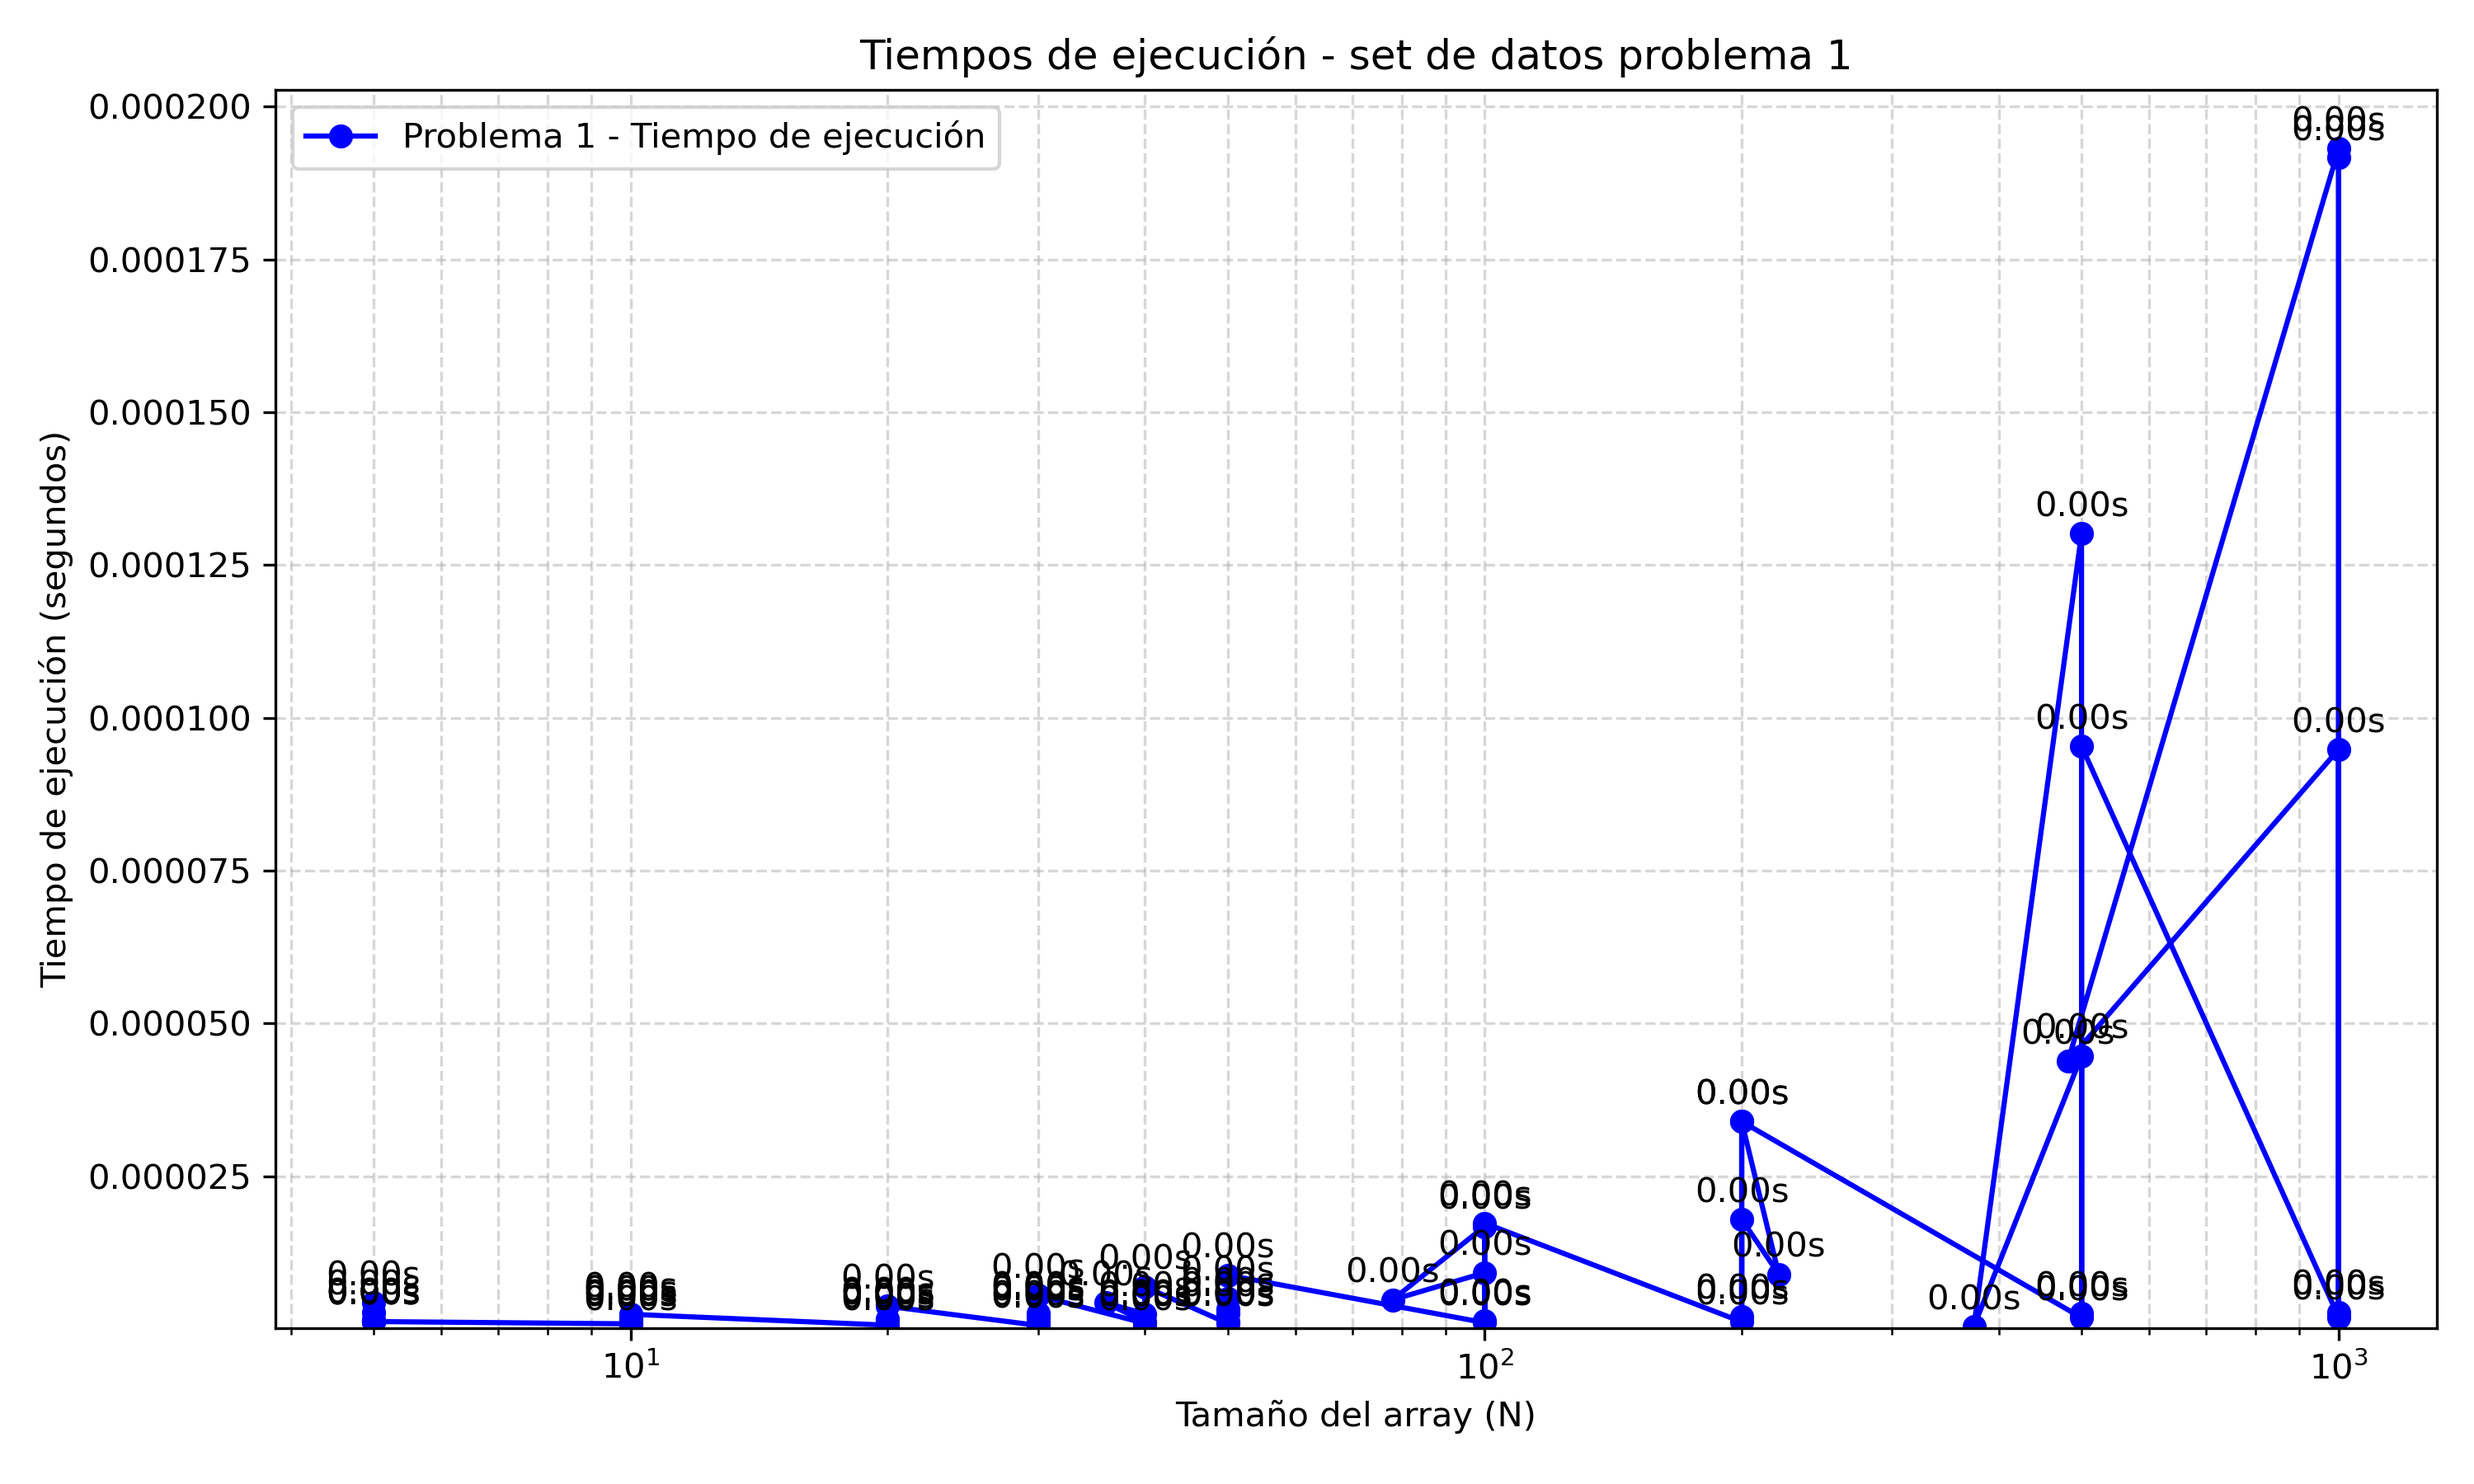
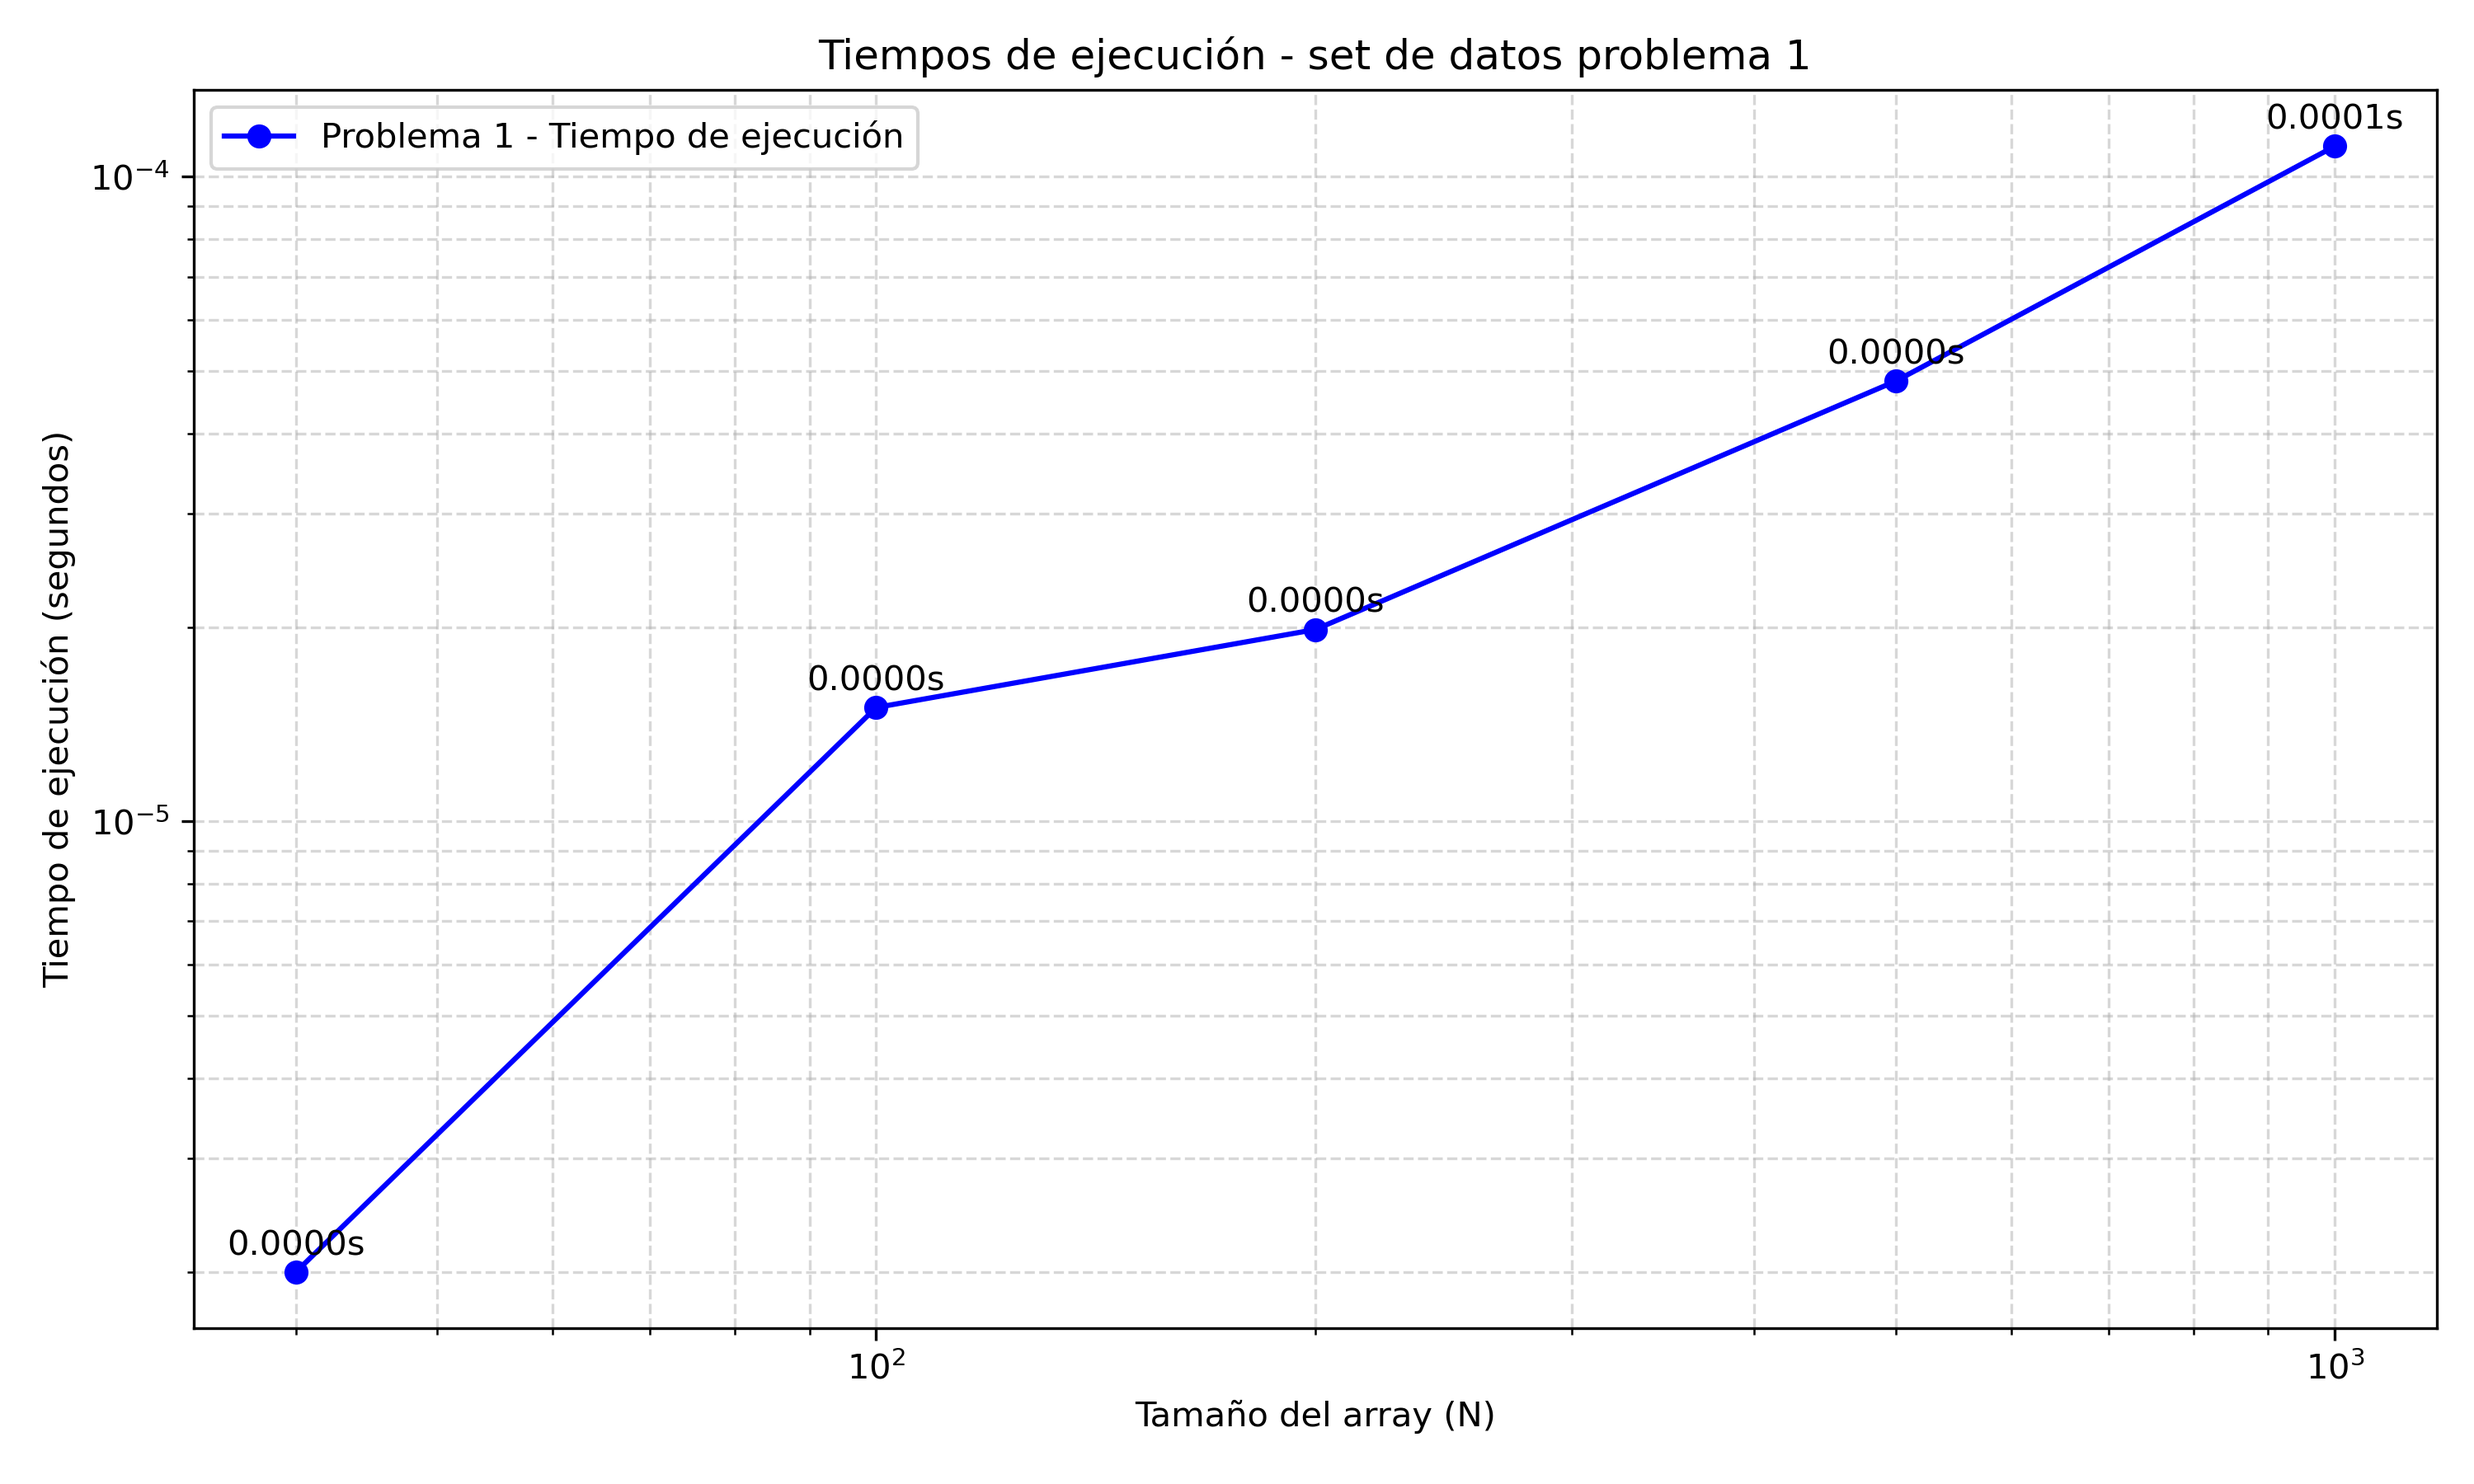
graficos

diff --git a/problema1/mediciones/mediciones.py b/problema1/mediciones/mediciones.py
@@ -17,7 +17,7 @@ def problema1(lista, inicio, final):
         result = problema1(lista, inicio, mitad - 1)
         if result != "no existe i":
             return result
-        return problema1(lista, lista[mitad] + 1, final)
+        return problema1(lista, mitad + 1, final)
     
     else:
         result = problema1(lista, inicio, mitad - 1)
@@ -52,12 +52,12 @@ def graficar_tiempos(lista_arrays, tiempos):
     plt.ylabel('Tiempo de ejecución (segundos)')
     plt.title('Tiempos de ejecución - set de datos problema 1')
     plt.xscale('log')    
-    plt.ylim(bottom=1e-7)  # evita problemas con valores cercanos a 0
+    plt.yscale('log')  # habías puesto ycale en vez de yscale
     plt.grid(True, which="both", ls="--", alpha=0.5)
 
     # anotar cada punto con su tiempo
     for x, y in zip(tamanios, tiempos):
-        plt.annotate(f"{y:.2f}s", (x, y),
+        plt.annotate(f"{y:.4f}s", (x, y),
                      textcoords="offset points", xytext=(0, 5), ha='center')
 
     plt.legend()
@@ -79,6 +79,15 @@ def leer_set(nombre_archivo):
 
 if __name__ == "__main__":
     input_path = "problema1/pruebas/set_de_datos.txt"
-    lista_arrays= leer_set(input_path)
+    #Arrays de 40,100,200,500,1000
+    lista_arrays=[
+[-12,-10,-8,-6,-4,-2,0,2,4,6,8,10,12,14,16,18,20,22,24,19,26,28,30,32,34,36,38,40,42,44,46,48,50,52,54,56,58,60,62,64],
+[-50,-48,-46,-44,-42,-40,-38,-36,-34,-32,-30,-28,-26,-24,-22,-20,-18,-16,-14,-12,-10,-8,-6,-4,-2,0,2,4,6,8,10,12,14,16,18,20,22,24,26,28,30,32,34,36,38,40,42,44,46,48,50,52,54,56,58,60,62,64,66,68,70,72,74,76,78,80,82,84,86,88,90,92,94,96,98,50,51,52,53,54,55,56,57,58,59,60,61,62,63,64,65,66,67,68,69,70,71,72,73,74],
+[-100,-98,-96,-94,-92,-90,-88,-86,-84,-82,-80,-78,-76,-74,-72,-70,-68,-66,-64,-62,-60,-58,-56,-54,-52,-50,-48,-46,-44,-42,-40,-38,-36,-34,-32,-30,-28,-26,-24,-22,-20,-18,-16,-14,-12,-10,-8,-6,-4,-2,0,2,4,6,8,10,12,14,16,18,20,22,24,26,28,30,32,34,36,38,40,42,44,46,48,50,52,54,56,58,60,62,64,66,68,70,72,74,76,78,80,82,84,86,88,90,92,94,96,98,100,102,104,106,108,110,112,114,116,118,120,122,124,126,128,130,132,134,136,138,140,142,144,146,148,150,152,154,156,158,160,162,164,166,168,170,172,174,176,178,180,182,184,186,188,190,192,194,196,198,100,101,102,103,104,105,106,107,108,109,110,111,112,113,114,115,116,117,118,119,120,121,122,123,124,125,126,127,128,129,130,131,132,133,134,135,136,137,138,139,140,141,142,143,144,145,146,147,148,149],
+[-250,-248,-246,-244,-242,-240,-238,-236,-234,-232,-230,-228,-226,-224,-222,-220,-218,-216,-214,-212,-210,-208,-206,-204,-202,-200,-198,-196,-194,-192,-190,-188,-186,-184,-182,-180,-178,-176,-174,-172,-170,-168,-166,-164,-162,-160,-158,-156,-154,-152,-150,-148,-146,-144,-142,-140,-138,-136,-134,-132,-130,-128,-126,-124,-122,-120,-118,-116,-114,-112,-110,-108,-106,-104,-102,-100,-98,-96,-94,-92,-90,-88,-86,-84,-82,-80,-78,-76,-74,-72,-70,-68,-66,-64,-62,-60,-58,-56,-54,-52,-50,-48,-46,-44,-42,-40,-38,-36,-34,-32,-30,-28,-26,-24,-22,-20,-18,-16,-14,-12,-10,-8,-6,-4,-2,0,2,4,6,8,10,12,14,16,18,20,22,24,26,28,30,32,34,36,38,40,42,44,46,48,50,52,54,56,58,60,62,64,66,68,70,72,74,76,78,80,82,84,86,88,90,92,94,96,98,100,102,104,106,108,110,112,114,116,118,120,122,124,126,128,130,132,134,136,138,140,142,144,146,148,150,152,154,156,158,160,162,164,166,168,170,172,174,176,178,180,182,184,186,188,190,192,194,196,198,200,202,204,206,208,210,212,214,216,218,220,222,224,226,228,230,232,234,236,238,240,242,244,246,248,250,252,254,256,258,260,262,264,266,268,270,272,274,276,278,280,282,284,286,288,290,292,294,296,298,300,302,304,306,308,310,312,314,316,318,320,322,324,326,328,330,332,334,336,338,340,342,344,346,348,350,352,354,356,358,360,362,364,366,368,370,372,374,376,378,380,382,384,386,388,390,392,394,396,398,400,402,404,406,408,410,412,414,416,418,420,422,424,426,428,430,432,434,436,438,440,442,444,446,448,450,452,454,456,458,460,462,464,466,468,470,472,474,476,478,480,482,484,486,488,490,492,494,496,498,250,251,252,253,254,255,256,257,258,259,260,261,262,263,264,265,266,267,268,269,270,271,272,273,274,275,276,277,278,279,280,281,282,283,284,285,286,287,288,289,290,291,292,293,294,295,296,297,298,299,300,301,302,303,304,305,306,307,308,309,310,311,312,313,314,315,316,317,318,319,320,321,322,323,324,325,326,327,328,329,330,331,332,333,334,335,336,337,338,339,340,341,342,343,344,345,346,347,348,349,350,351,352,353,354,355,356,357,358,359,360,361,362,363,364,365,366,367,368,369,370,371,372,373,374],
+[-500,-498,-496,-494,-492,-490,-488,-486,-484,-482,-480,-478,-476,-474,-472,-470,-468,-466,-464,-462,-460,-458,-456,-454,-452,-450,-448,-446,-444,-442,-440,-438,-436,-434,-432,-430,-428,-426,-424,-422,-420,-418,-416,-414,-412,-410,-408,-406,-404,-402,-400,-398,-396,-394,-392,-390,-388,-386,-384,-382,-380,-378,-376,-374,-372,-370,-368,-366,-364,-362,-360,-358,-356,-354,-352,-350,-348,-346,-344,-342,-340,-338,-336,-334,-332,-330,-328,-326,-324,-322,-320,-318,-316,-314,-312,-310,-308,-306,-304,-302,-300,-298,-296,-294,-292,-290,-288,-286,-284,-282,-280,-278,-276,-274,-272,-270,-268,-266,-264,-262,-260,-258,-256,-254,-252,-250,-248,-246,-244,-242,-240,-238,-236,-234,-232,-230,-228,-226,-224,-222,-220,-218,-216,-214,-212,-210,-208,-206,-204,-202,-200,-198,-196,-194,-192,-190,-188,-186,-184,-182,-180,-178,-176,-174,-172,-170,-168,-166,-164,-162,-160,-158,-156,-154,-152,-150,-148,-146,-144,-142,-140,-138,-136,-134,-132,-130,-128,-126,-124,-122,-120,-118,-116,-114,-112,-110,-108,-106,-104,-102,-100,-98,-96,-94,-92,-90,-88,-86,-84,-82,-80,-78,-76,-74,-72,-70,-68,-66,-64,-62,-60,-58,-56,-54,-52,-50,-48,-46,-44,-42,-40,-38,-36,-34,-32,-30,-28,-26,-24,-22,-20,-18,-16,-14,-12,-10,-8,-6,-4,-2,0,2,4,6,8,10,12,14,16,18,20,22,24,26,28,30,32,34,36,38,40,42,44,46,48,50,52,54,56,58,60,62,64,66,68,70,72,74,76,78,80,82,84,86,88,90,92,94,96,98,100,102,104,106,108,110,112,114,116,118,120,122,124,126,128,130,132,134,136,138,140,142,144,146,148,150,152,154,156,158,160,162,164,166,168,170,172,174,176,178,180,182,184,186,188,190,192,194,196,198,200,202,204,206,208,210,212,214,216,218,220,222,224,226,228,230,232,234,236,238,240,242,244,246,248,250,252,254,256,258,260,262,264,266,268,270,272,274,276,278,280,282,284,286,288,290,292,294,296,298,300,302,304,306,308,310,312,314,316,318,320,322,324,326,328,330,332,334,336,338,340,342,344,346,348,350,352,354,356,358,360,362,364,366,368,370,372,374,376,378,380,382,384,386,388,390,392,394,396,398,400,402,404,406,408,410,412,414,416,418,420,422,424,426,428,430,432,434,436,438,440,442,444,446,448,450,452,454,456,458,460,462,464,466,468,470,472,474,476,478,480,482,484,486,488,490,492,494,496,498,500,502,504,506,508,510,512,514,516,518,520,522,524,526,528,530,532,534,536,538,540,542,544,546,548,550,552,554,556,558,560,562,564,566,568,570,572,574,576,578,580,582,584,586,588,590,592,594,596,598,600,602,604,606,608,610,612,614,616,618,620,622,624,626,628,630,632,634,636,638,640,642,644,646,648,650,652,654,656,658,660,662,664,666,668,670,672,674,676,678,680,682,684,686,688,690,692,694,696,698,700,702,704,706,708,710,712,714,716,718,720,722,724,726,728,730,732,734,736,738,740,742,744,746,748,750,752,754,756,758,760,762,764,766,768,770,772,774,776,778,780,782,784,786,788,790,792,794,796,798,800,802,804,806,808,810,812,814,816,818,820,822,824,826,828,830,832,834,836,838,840,842,844,846,848,850,852,854,856,858,860,862,864,866,868,870,872,874,876,878,880,882,884,886,888,890,892,894,896,898,900,902,904,906,908,910,912,914,916,918,920,922,924,926,928,930,932,934,936,938,940,942,944,946,948,950,952,954,956,958,960,962,964,966,968,970,972,974,976,978,980,982,984,986,988,990,992,994,996,998,500,501,502,503,504,505,506,507,508,509,510,511,512,513,514,515,516,517,518,519,520,521,522,523,524,525,526,527,528,529,530,531,532,533,534,535,536,537,538,539,540,541,542,543,544,545,546,547,548,549,550,551,552,553,554,555,556,557,558,559,560,561,562,563,564,565,566,567,568,569,570,571,572,573,574,575,576,577,578,579,580,581,582,583,584,585,586,587,588,589,590,591,592,593,594,595,596,597,598,599,600,601,602,603,604,605,606,607,608,609,610,611,612,613,614,615,616,617,618,619,620,621,622,623,624,625,626,627,628,629,630,631,632,633,634,635,636,637,638,639,640,641,642,643,644,645,646,647,648,649,650,651,652,653,654,655,656,657,658,659,660,661,662,663,664,665,666,667,668,669,670,671,672,673,674,675,676,677,678,679,680,681,682,683,684,685,686,687,688,689,690,691,692,693,694,695,696,697,698,699,700,701,702,703,704,705,706,707,708,709,710,711,712,713,714,715,716,717,718,719,720,721,722,723,724,725,726,727,728,729,730,731,732,733,734,735,736,737,738,739,740,741,742,743,744,745,746,747,748,749]
+]
+    
+    
     tiempos = medir_tiempos(lista_arrays)
     graficar_tiempos(lista_arrays, tiempos)
